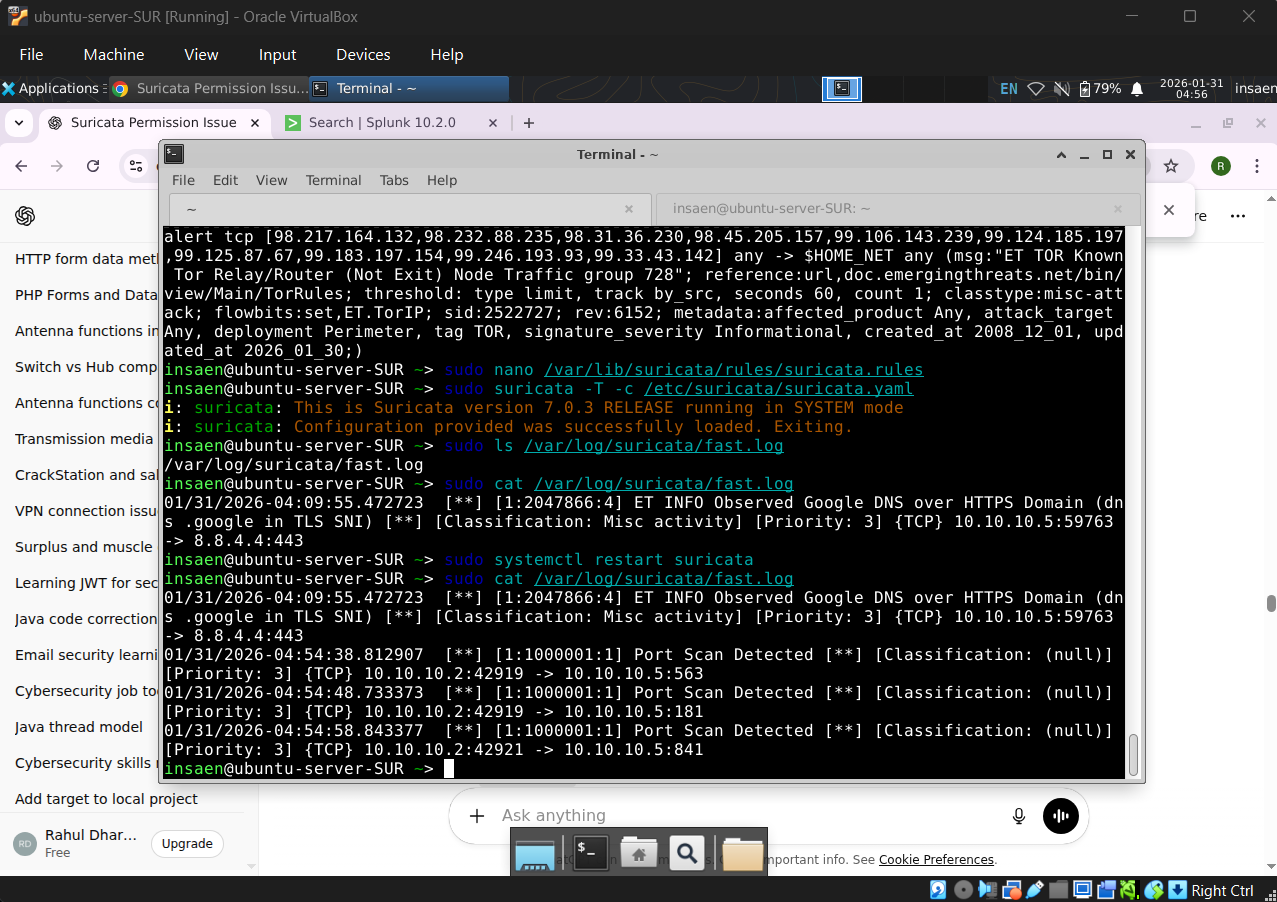
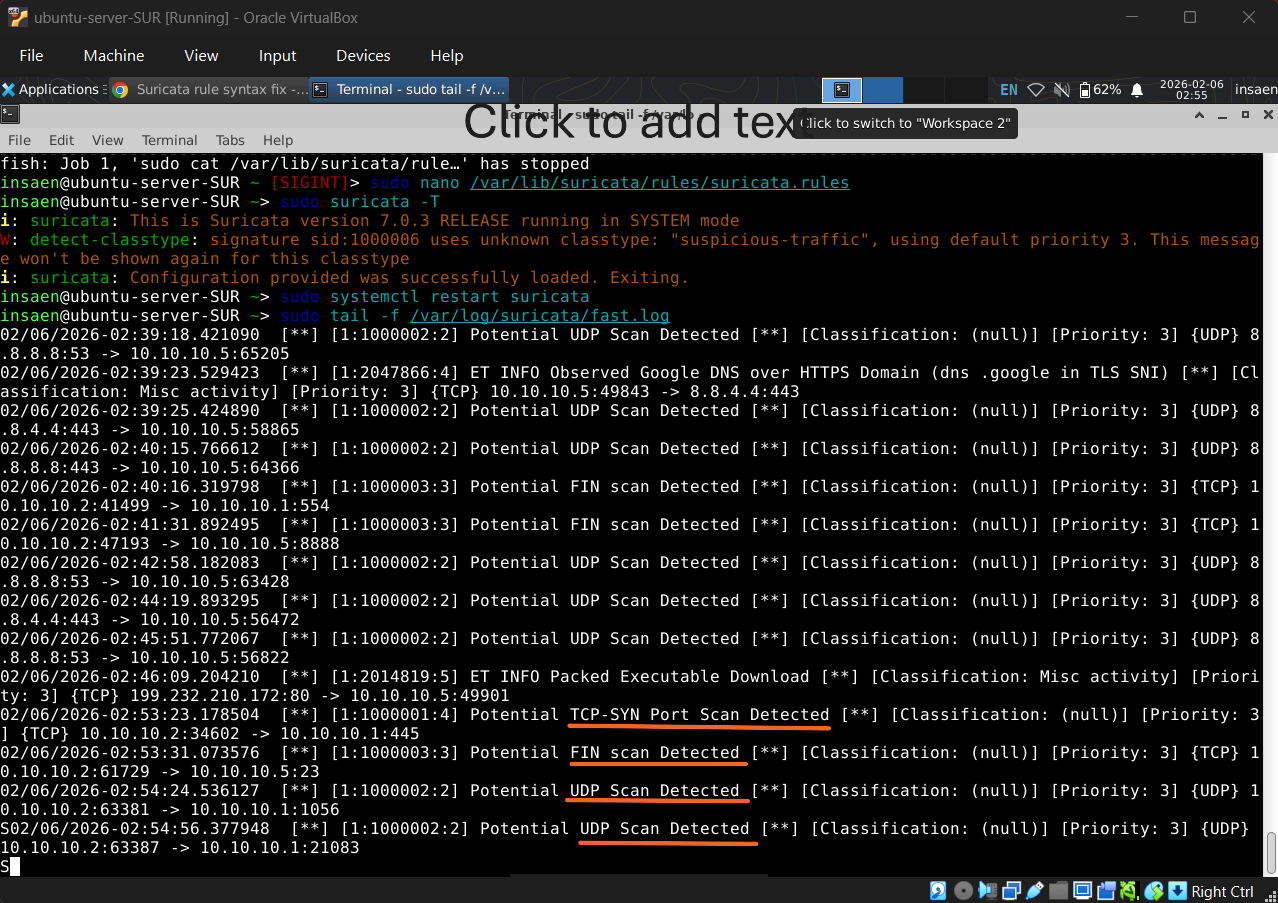
completed port scan

diff --git a/MITRE/TA0043-Reconnaissance/PortScan.md b/MITRE/TA0043-Reconnaissance/PortScan.md
@@ -1,32 +1,132 @@
-# Port Scan
+# Port Scan Reconnaissance
+
+> **MITRE ATT&CK Technique:** T1046 - Network Service Discovery 
+> **Tactic:** TA0043 - Reconnaissance
+
+---
+
 ## Description
-Port Scanning is basically a reconnaissance technique used to identify open ports on a target system.
-cmd
+Port Scanning is a reconnaissance technique used to identify **open ports** and **running services** on a target system. Attackers use this to map the attack surface before exploitation.
+### Command Example
+
+```bash
+sudo nmap <scan-type> -Pn -p 1-1000 10.10.10.5
 ```
-sudo nmap -p 1-1000 10.10.10.5
-```
+
 ![Port-Scan](./images/port-scan-kali.png)
 
-### Detection
+---
 
-#### Suricata
+## Detection Methods
 
+### 1. Suricata (Signature-Based Detection)
 
-```
+#### TCP-SYN Scan (`-sS`)
+
+In a typical scan, Nmap uses TCP and builds a **half-open connection** by sending only a SYN packet and receiving an ACK (if any). This **does not complete** the three-way handshake.
+
+| Property | Value |
+|----------|-------|
+| **Protocol** | TCP |
+| **Nmap Flag** | `-sS` |
+| **Detection** | High visibility |
+
+```suricata
 alert tcp any any -> $HOME_NET any (
-    msg:"Potential Port Scan Detected"
-    flags:S;
-    flow:stateless;
-    threshold:type threshold,track by_src,count 30,seconds 60;
+    msg:"Potential Port Scan Detected";
+    flags:S;                                                    # SYN flag
+    flow:stateless;                                             # Stateless - no full handshake
+    threshold:type both, track by_src, count 30, seconds 60;
     sid:1000001;
     rev:1;
 )
 ```
-![suricata-detecion](./images/suricata-detection.png)
-#### Splunk
+
+> **Limitation:** This can potentially fail on slow scans — that's when **Zeek** comes in.
+
+---
+
+#### UDP Scan (`-sU`)
+
+In UDP scans, Nmap uses the UDP protocol, which makes it **stealthier** due to the absence of a handshake, but also **less accurate**.
+
+| Property | Value |
+|----------|-------|
+| **Protocol** | UDP |
+| **Nmap Flag** | `-sU` |
+| **Detection** | Medium visibility |
+
+**Why is it stealthier?**
+- No flags
+- No handshake
+- No special flow
+- Slower scan rate
+
+```suricata
+alert udp any any -> $HOME_NET any (
+    msg:"Potential UDP Port Scan Detected";
+    flow:stateless;                                             # No session maintained
+    threshold:type both, track by_src, count 10, seconds 60;
+    sid:1000002;
+    rev:1;
+)
 ```
-index="suricata-win11" 
-| stats dc(dest_port) as Unique_ports  values(dest_port) as ports by dest_ip src_ip
+
+---
+
+#### FIN Scan (`-sF`)
+
+In a FIN scan, only the **FIN flag** is used. This can bypass basic firewalls but has limitations — it **does not work properly on Windows** systems, which send RST for both closed and open ports.
+
+| Property | Value |
+|----------|-------|
+| **Protocol** | TCP |
+| **Nmap Flag** | `-sF` |
+| **Detection** | Medium visibility |
+
+**Why is it stealthier?**
+- No SYN flag
+- No handshake
+- No special flow
+
+```suricata
+alert tcp any any -> $HOME_NET any (
+    msg:"Potential FIN Port Scan Detected";
+    flags:F;                                                    # FIN flag
+    flow:stateless;                                             # No session maintained
+    threshold:type both, track by_src, count 10, seconds 60;
+    sid:1000003;
+    rev:1;
+)
+```
+
+> **Limitation:** These UDP and FIN are slow scans so detectino can be avoided — that's when **Zeek** comes in.
+
+![suricata-detection](./images/suricata-detection.png)
+
+---
+
+### 2. Splunk + Zeek (Behavioral Detection)
+
+For slow scans and evasive techniques, behavioral analysis with **Zeek logs** in **Splunk** provides better detection.
+
+```spl
+index="zeek" 
+| stats dc(id.dest_p) as Unique_ports values(id.dest_p) as ports by id.dest_h id.resp_h
 | where Unique_ports > 30
 ```
+
 ![Splunk-detection](./images/splunk-port.png)
+
+---
+
+## Quick Summary
+
+| Scan Type | App Logs | Firewall Logs | IDS Visibility |
+|-----------|----------|---------------|----------------|
+| `-sT` (TCP Connect) | Yes | Yes | High |
+| `-sS` (SYN Stealth) | No | Yes | High |
+| `-sF` (FIN Scan) | No | Maybe | Medium |
+| `-sU` (UDP Scan) | No | ICMP | Medium |
+
+
